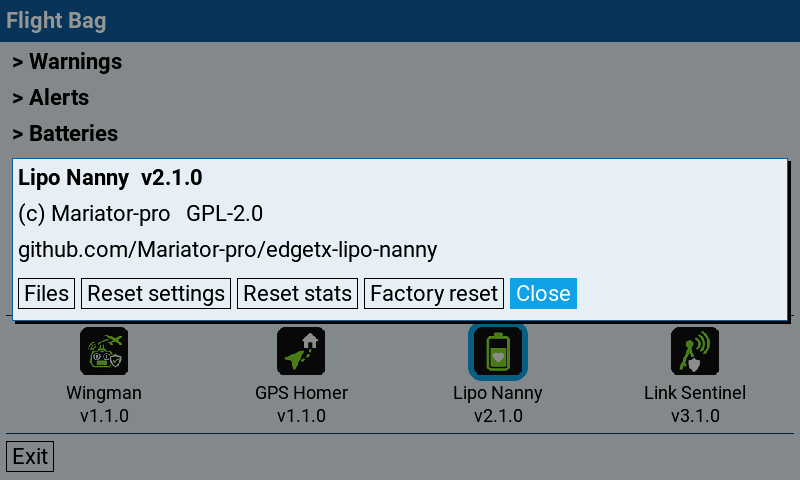
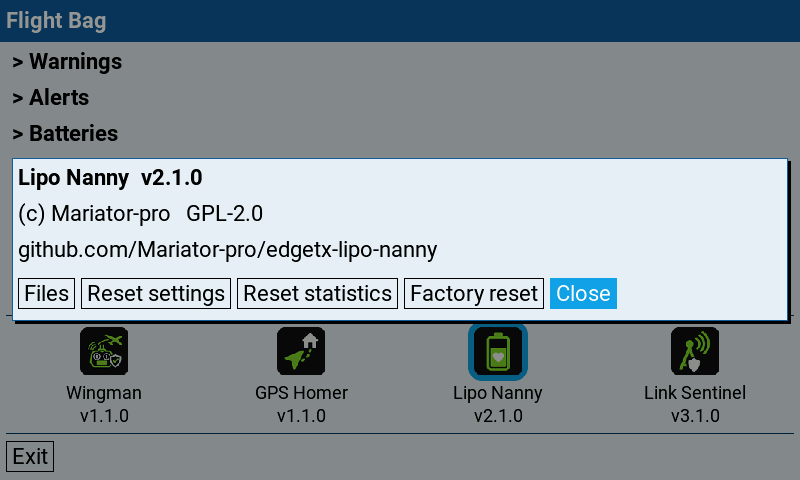
Cores synced: Lipo Nanny's Reset statistics and a factory reset question naming the app; Flight Bag guide and popup screenshot updated (Mariator-pro/edgetx-lipo-nanny#1)

Changed region(s): [[0.4062, 0.5625, 0.7812, 0.6562]]

diff --git a/docs/flightbag.md b/docs/flightbag.md
@@ -78,7 +78,7 @@ so no reset changes them.
 | Project | Button | What it does |
 |---|---|---|
 | Lipo Nanny | **Reset settings** | Thresholds and warning sounds back to the defaults. Batteries, models and statistics stay. |
-| Lipo Nanny | **Reset stats** | Zeroes every pack's cycle count and statistics (Life mAh, Vmin, Last used) and empties the archive. Profiles and models stay. |
+| Lipo Nanny | **Reset statistics** | Zeroes every pack's cycle count and statistics (Life mAh, Vmin, Last used) and empties the archive. Profiles and models stay. |
 | Lipo Nanny | **Factory reset** | Erases all batteries, models, statistics and settings. |
 | Link Sentinel | **Reset settings** | All Link Sentinel settings back to the defaults. |
 | GPS Homer | **Reset settings** | All GPS Homer settings back to the defaults. Last flights stay. |
@@ -214,7 +214,7 @@ A read-only table, one row per pack, that the widget fills in as you fly:
 | **Vmin** | The lowest cell voltage ever seen under load, `-` if never flown. |
 | **Last used** | Date of the most recent flight (`YYYY-MM-DD`), or `-`. |
 
-**Reset stats** in the Lipo Nanny popup clears them (together with the cycle counts).
+**Reset statistics** in the Lipo Nanny popup clears them (together with the cycle counts).
 
 ---
 
